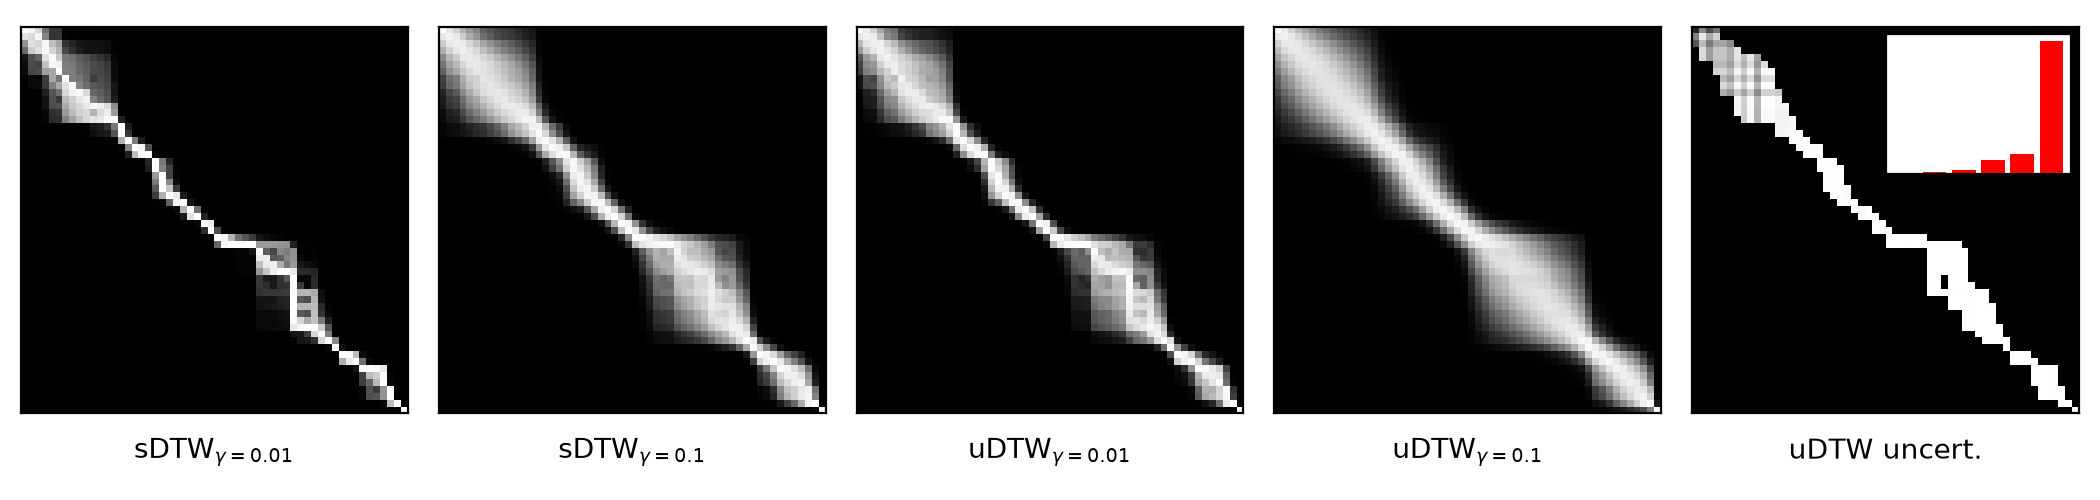
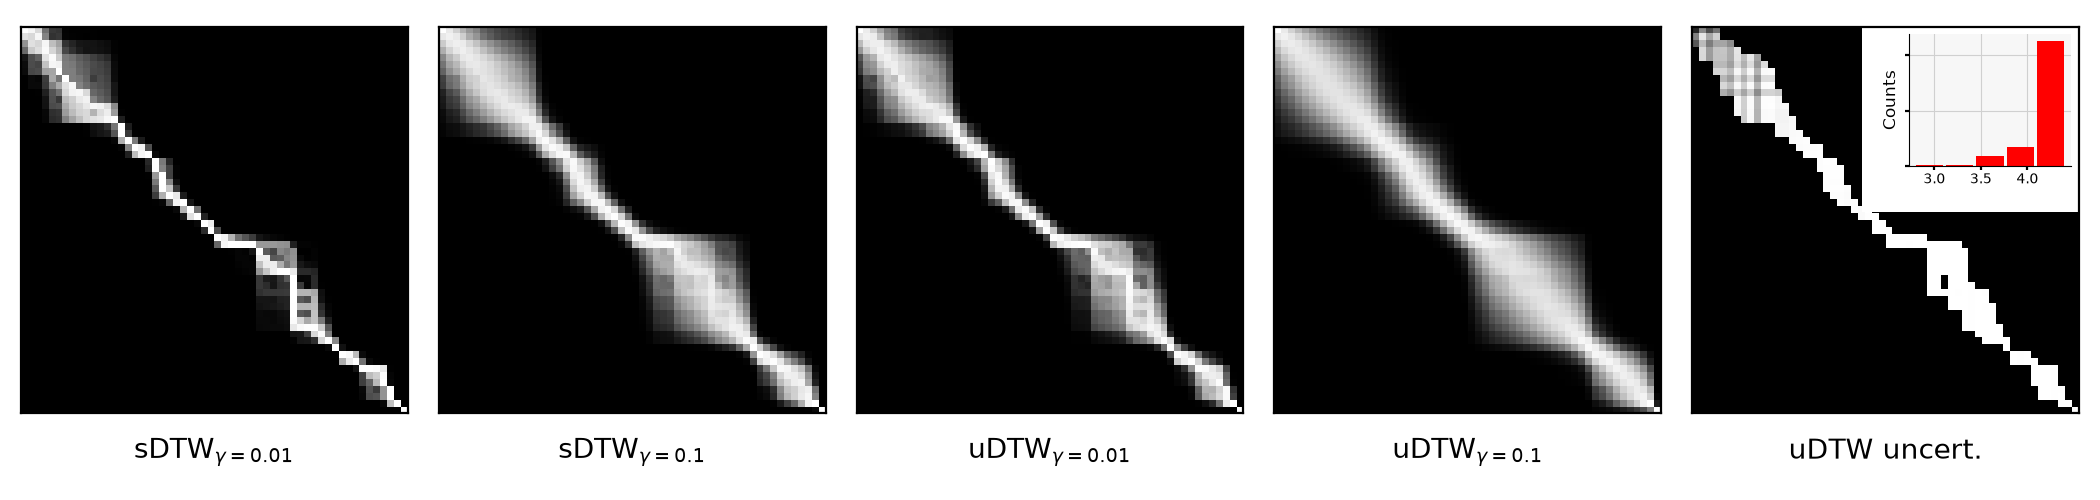
Add sDTW training loss for ECG5000, JEANIE 2-max shift panel, paper-style uDTW histogram

Changed region(s): [[0.8667, 0.03, 0.9905, 0.45]]

diff --git a/src/torchwarp/plot.py b/src/torchwarp/plot.py
@@ -29,6 +29,11 @@ def _plt():
     return plt
 
 
+def _ticker():
+    import matplotlib.ticker
+    return matplotlib.ticker
+
+
 def _np(x):
     return x.detach().float().cpu().numpy() if torch.is_tensor(x) else np.asarray(x)
 
@@ -76,11 +81,21 @@ def uncertainty(a, index=0, ax=None, power=0.1, threshold=0.6, hist=True, title=
     ax.set_yticks([])
     ax.set_box_aspect(1)
     if hist:
-        ins = ax.inset_axes([0.5, 0.62, 0.48, 0.36])
-        ins.hist(on_path, bins=6, color="red", rwidth=0.8)
-        ins.set_facecolor("white")
-        ins.tick_params(labelsize=5, length=2, pad=1)
-        ins.set_xticks([])
+        ax.add_patch(plt.Rectangle((0.44, 0.52), 0.56, 0.48, transform=ax.transAxes,
+                                   facecolor="white", edgecolor="none"))
+        ins = ax.inset_axes([0.56, 0.64, 0.42, 0.34])
+        ins.set_facecolor("#f7f7f7")
+        ins.grid(True, color="#d0d0d0", linewidth=0.4)
+        ins.set_axisbelow(True)
+        ins.hist(on_path, bins=5, color="red", rwidth=0.9)
+        ins.set_ylabel("Counts", fontsize=6, labelpad=1)
+        ins.tick_params(labelsize=5, length=1.5, pad=1)
+        ins.set_yticklabels([])
+        ins.xaxis.set_major_locator(_ticker().MaxNLocator(4))
+        for side in ("top", "right"):
+            ins.spines[side].set_visible(False)
+        for side in ("left", "bottom"):
+            ins.spines[side].set_linewidth(0.4)
     if title:
         ax.set_title(title, y=-0.16, fontsize=10)
     return ax
@@ -224,17 +239,21 @@ def viewpoint_figure(query, support, angles, gamma=0.1, max_shift=1, metric="euc
     """JEANIE Fig. 7: soft-DTW per view, FVM and JEANIE (one path per start view).
 
     query [B, K, T, D] (or [K, T, D]), support [B, U, D] (or [U, D]).
-    ``axes``: three existing 3-D axes to draw into (e.g. one row of a larger
-    figure); ``titles``: three panel captions.
+    ``max_shift``: an int, or a sequence of ints for one JEANIE panel each.
+    ``axes``: existing 3-D axes to draw into, one per panel (e.g. one row of
+    a larger figure); ``titles``: one caption per panel.
     """
     plt = _plt()
+    shifts = [max_shift] if isinstance(max_shift, int) else list(max_shift)
+    n = 2 + len(shifts)
     if axes is None:
-        fig = plt.figure(figsize=(15, 4.6))
-        axes = [fig.add_subplot(1, 3, i + 1, projection="3d") for i in range(3)]
+        fig = plt.figure(figsize=(5 * n, 4.6))
+        axes = [fig.add_subplot(1, n, i + 1, projection="3d") for i in range(n)]
         fig.subplots_adjust(wspace=0.0, left=0.0, right=1.0, top=1.02, bottom=0.07)
     fig = axes[0].figure
-    titles = titles or ["(a) soft-DTW (applied per view)", "(b) FVM",
-                        "(c) JEANIE ({}-max shift)".format(max_shift)]
+    titles = titles or (["(a) soft-DTW (applied per view)", "(b) FVM"] +
+                        ["({}) JEANIE ({}-max shift)".format("cdefgh"[i], m)
+                         for i, m in enumerate(shifts)])
     kw = dict(angles=angles, query_poses=query_poses, support_poses=support_poses, bones=bones,
               index=index, pose_step=pose_step)
     g_s, g_f, g_j = sdtw_gamma or gamma, fvm_gamma or gamma, jeanie_gamma or gamma
@@ -247,8 +266,9 @@ def viewpoint_figure(query, support, angles, gamma=0.1, max_shift=1, metric="euc
     path_3d([f], [r"$d_{FVM} = %.2f$" % float(f.distance[index])], ax=axes[1],
             colors=[PATH_COLORS[3]], title=titles[1], **kw)
 
-    starts = [_paths.jeanie(query, support, g_j, max_shift, metric, angles, start_view=k)
-              for k in range(len(angles))]
-    path_3d(starts, ["{:.2f}".format(float(a.distance[index])) for a in starts],
-            ax=axes[2], title=titles[2], **kw)
+    for i, m in enumerate(shifts):
+        starts = [_paths.jeanie(query, support, g_j, m, metric, angles, start_view=k)
+                  for k in range(len(angles))]
+        path_3d(starts, ["{:.2f}".format(float(a.distance[index])) for a in starts],
+                ax=axes[2 + i], title=titles[2 + i], **kw)
     return fig

diff --git a/examples/ecg5000_forecast.py b/examples/ecg5000_forecast.py
@@ -4,6 +4,7 @@ An MLP (84 -> 256 -> 56) predicts the last 40% of each series from the first
 60%. Training losses (squared-Euclidean frame cost):
   * euclidean: sum_t (pred_t - y_t)^2
   * dtw:       hard DTW (plain PyTorch dynamic program)
+  * sdtw:      soft-DTW sdtw(x,y)
   * sdtw_div:  soft-DTW divergence sdtw(x,y) - [sdtw(x,x) + sdtw(y,y)] / 2
   * udtw:      d_uDTW + beta * Omega (normalize=True), sigma from a SigmaNet
 
@@ -41,6 +42,7 @@ BASE = dict(
 LOSSES = {
     "euclidean": {},
     "dtw": {},
+    "sdtw": dict(gamma=0.001),
     "sdtw_div": dict(gamma=0.001),
     "udtw": dict(gamma=1.0, beta=1.0, sigma_a=2.0, sigma_b=0.1, lr=3e-3),
 }
@@ -108,9 +110,11 @@ def make_loss(name, cfg):
         return lambda pred, y, sigma: ((pred - y) ** 2).sum(1).mean()
     if name == "dtw":
         return lambda pred, y, sigma: hard_dtw_loss(pred, y).mean()
-    if name == "sdtw_div":
+    if name in ("sdtw", "sdtw_div"):
         def sdtw(a, b):
             return soft_dtw((a.unsqueeze(2) - b.unsqueeze(1)) ** 2, cfg["gamma"])
+        if name == "sdtw":
+            return lambda pred, y, sigma: sdtw(pred, y).mean()
         return lambda pred, y, sigma: (sdtw(pred, y) - 0.5 * (sdtw(pred, pred) + sdtw(y, y))).mean()
     crit = uDTW(gamma=cfg["gamma"], normalize=cfg["normalize"])
 

diff --git a/tests/test_paths.py b/tests/test_paths.py
@@ -106,3 +106,6 @@ def test_plot_figures():
                                 support_poses=poses_s, bones=[(0, 1), (1, 2)], pose_step=2)
     assert len(fig.axes) == 3
     plt.close(fig)
+    fig = plot.viewpoint_figure(q, s, [-60, -30, 0, 30, 60], max_shift=(1, 2))
+    assert len(fig.axes) == 4
+    plt.close(fig)

diff --git a/README.md b/README.md
@@ -106,9 +106,10 @@ from torchwarp import plot
 fig = plot.udtw_figure(X, Y, sx, sy, gammas=(0.01, 0.1))
 fig.savefig("udtw_paths.png")
 
-# soft-DTW / FVM / JEANIE paths (JEANIE paper, Fig. 7)
+# soft-DTW / FVM / JEANIE paths (JEANIE paper, Fig. 7),
+# one JEANIE panel per max_shift
 angles = [-60, -30, 0, 30, 60]  # one per query view
-fig = plot.viewpoint_figure(query, support, angles)
+fig = plot.viewpoint_figure(query, support, angles, max_shift=(1, 2))
 fig.savefig("viewpoint_paths.png")
 ```
 
@@ -125,7 +126,7 @@ ECG5000, forecast vs. ground truth of a trained uDTW model:
 
 ![uDTW paths on ECG5000](assets/udtw_paths_ecg5000.png)
 
-NW-UCLA, query vs. support of the same action (donning):
+NW-UCLA, query vs. support of the same action (donning), JEANIE with 1-max and 2-max shift:
 
 ![soft-DTW, FVM and JEANIE paths on NW-UCLA](assets/viewpoint_paths_nwucla.png)
 
@@ -152,6 +153,7 @@ UCR ECG5000: forecast the last 40% of each series from the first 60%. Rows: trai
 | --- | --- | --- | --- | --- |
 | Euclidean | 0.2161 ± 0.0065 | 5.5127 ± 0.3189 | 7.8376 ± 0.3005 | 2.5342 ± 0.0911 |
 | DTW | 0.7299 ± 0.1767 | 5.3317 ± 0.4190 | 19.0465 ± 3.5771 | 9.3703 ± 2.7353 |
+| sDTW | 0.7265 ± 0.1751 | 5.3920 ± 0.4921 | 18.9393 ± 3.6078 | 9.2567 ± 2.6598 |
 | sDTW div. | 0.7248 ± 0.1845 | 5.3684 ± 0.5537 | 19.0471 ± 3.7483 | 9.2619 ± 2.7557 |
 | uDTW | 0.2698 ± 0.0138 | 6.8878 ± 0.4812 | 8.4908 ± 0.4687 | 2.7986 ± 0.1459 |
 
